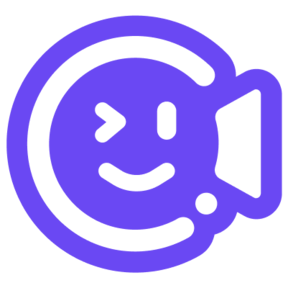
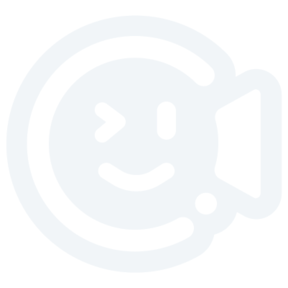
アイコンの色を変更

diff --git a/src/plugin.ts b/src/plugin.ts
@@ -17,7 +17,7 @@ type GlobalSettings = {
 // nLPluginインスタンスを作成
 const nLPlugin = new NLPlugin("StreamDeck");
 nLPlugin.developer = "Live2D Inc.";
-nLPlugin.version = "1.0.0";
+nLPlugin.version = "1.0.1";
 
 nLPlugin.addEventListener("NotifyCurrentModelChanged", setCurrentModel);
 nLPlugin.addEventListener("NotifyEnabledChanged", (message: any) => {
